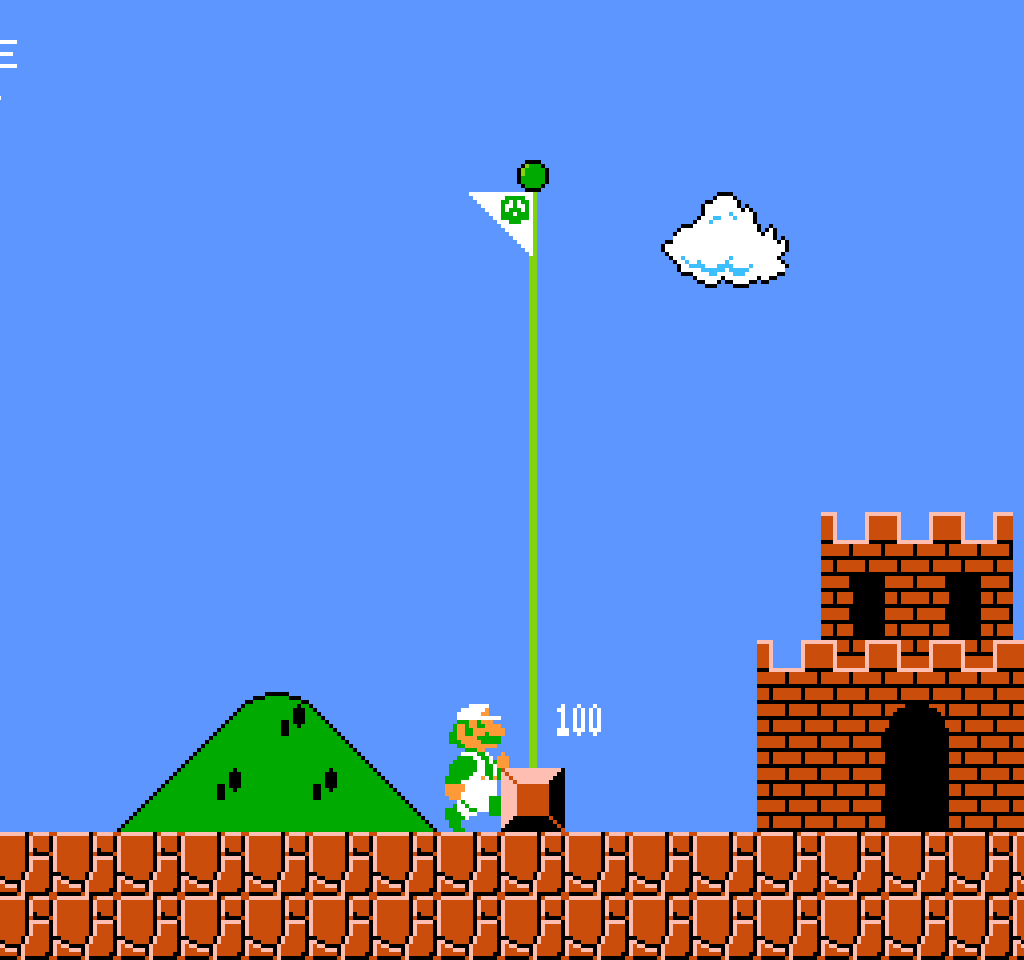
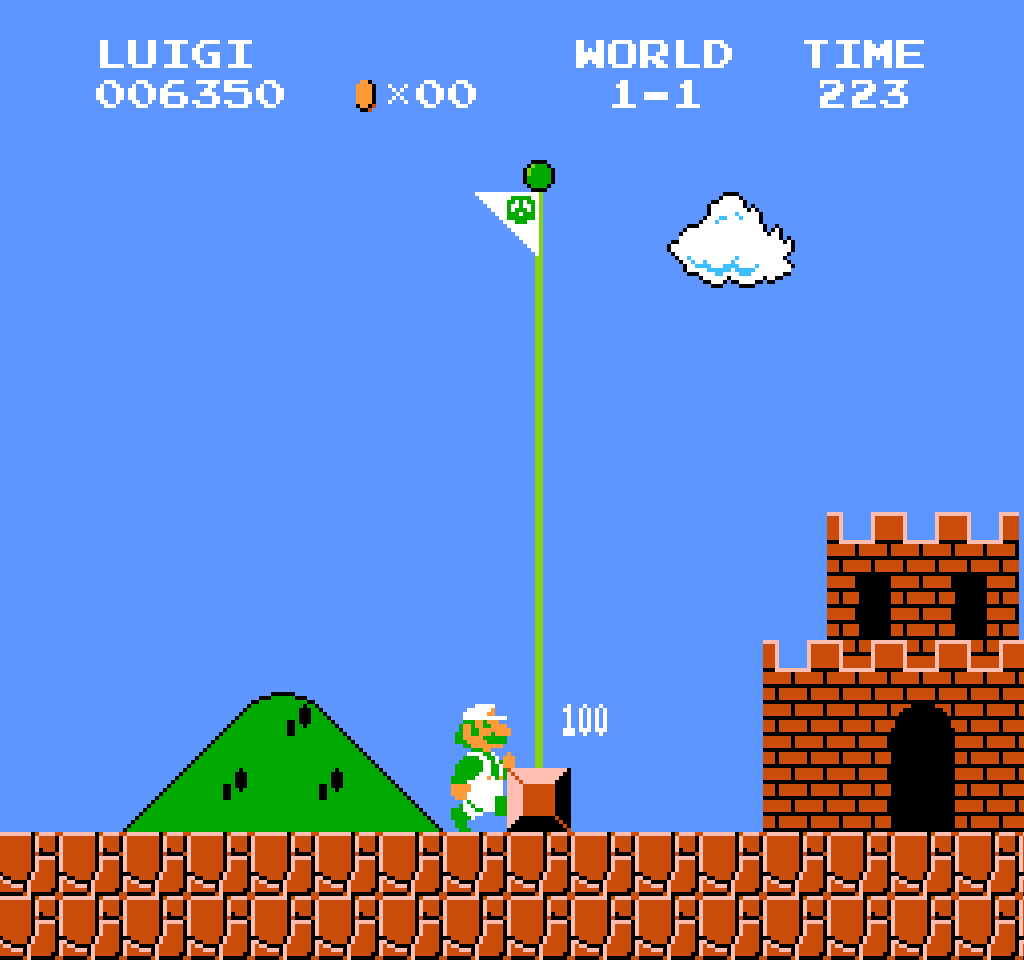
Updated Screenshots

diff --git a/src/Game.cpp b/src/Game.cpp
@@ -428,9 +428,12 @@ sf::Image Game::GetScreenshot() const noexcept {
 
     renderTexture.clear(Renderer::BackgroundColor);
 
-    renderTexture.setView(generateCameraView());
+    renderTexture.setView(sf::View(sf::FloatRect({0.f, 0.f}, {gbl::Width, gbl::Height})));
 
     Renderer::RenderUi(renderTexture, m_World, m_OnTitleScreen);
+    
+    renderTexture.setView(generateCameraView());
+    
     Renderer::RenderGame(renderTexture, m_World);
 
     if (m_OnTitleScreen && MapLoader::GetCurrentPage() <= 3u && m_World.CameraPosition < 256.f) {

diff --git a/README.md b/README.md
@@ -79,14 +79,20 @@ Perfect for runners validating setups, testing theories, or hunting new tech.
 
 ## 🖼 Screenshots
 
-<p align="center">
-  <img src="Screenshots/Title.png"/>
-  <img src="Screenshots/Gameplay.png"/>
+<p align="left">
+  <img src="Screenshots/Title.png" width="50%"/>
 </p>
 
-<p align="center">
-  <img src="Screenshots/Flagpole.png"/>
-  <img src="Screenshots/Wrong Warp.png"/>
+<p align="left">
+  <img src="Screenshots/Gameplay.png" width="50%"/>
+</p>
+
+<p align="left">
+  <img src="Screenshots/Flagpole.png" width="50%"/>
+</p>
+
+<p align="left">
+  <img src="Screenshots/Wrong Warp.png" width="50%"/>
 </p>
 
 ---
